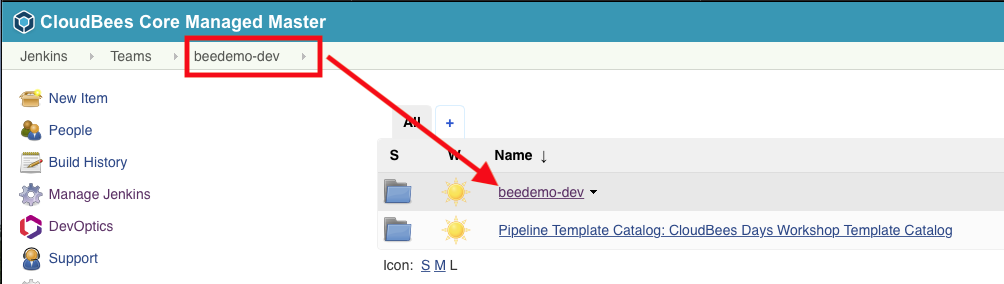
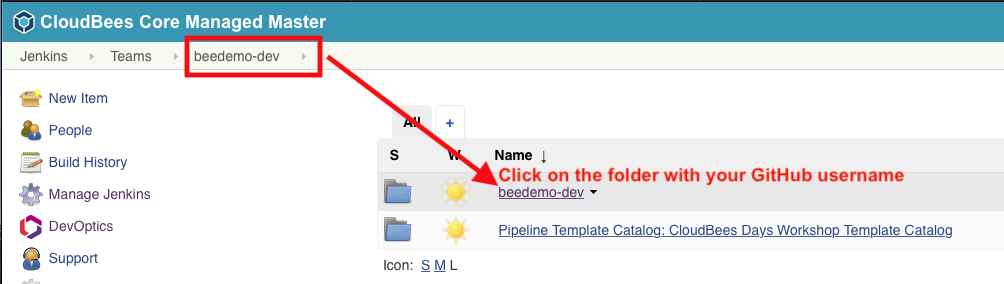
added image for folder path for creating org folder job

Changed region(s): [[0.494, 0.5915, 0.9263, 0.6479]]

diff --git a/declarative-basics.md b/declarative-basics.md
@@ -33,7 +33,7 @@ In order to complete the following exercise you should have [forked the followin
 Once that repository is forked:
 
 1. **IMPORTANT** Navigate back to the top-level of your **Team Master** and click on the folder with the same name as your **Team Master**. This is important if you want to use [Blue Ocean](https://jenkins.io/projects/blueocean/) to visualize the Pipeline runs, because only jobs under this folder will show up in Blue Ocean.<p><img src="img/intro/org_folder_team_folder.png" width=850/> 
-2. Click on **New Item** in the left navigation menu - make sure that you are in the folder with the same name as your team, and not at the root of your Team Master  
+2. Click on **New Item** in the left navigation menu - make sure that you are in the folder with the same name as your team, and not at the root of your Team Master  <p><img src="img/intro/org_folder_bluesteel_folder.png" width=850/>
 3. Enter your GitHub Organization name as the **Item Name** 
 4. Select **GitHub Organization**
 5. Click **Ok** <p><img src="img/intro/org_folder_item.png" width=850/>
